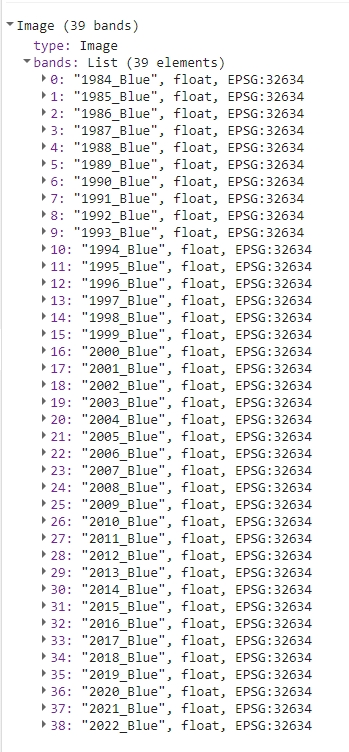
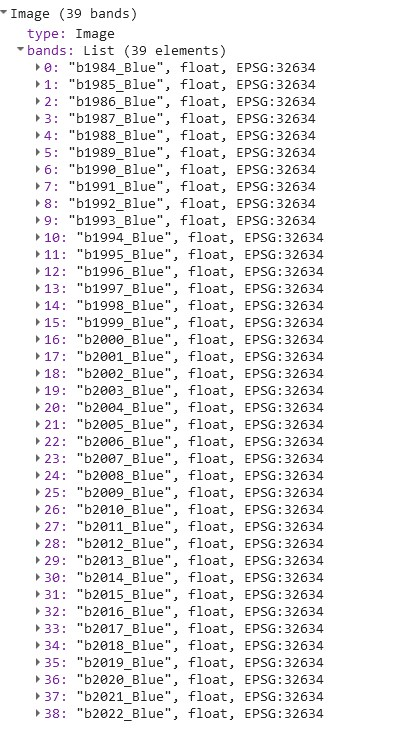
minor exercises fixes

Changed region(s): [[0.0, 0.0, 0.8883, 0.9959]]

diff --git a/course/module2/05_vegetation_monitoring/05_vegetation_monitoring_exercise.md b/course/module2/05_vegetation_monitoring/05_vegetation_monitoring_exercise.md
@@ -72,7 +72,7 @@ You should be able to see a multiband NBR image in the console.
 
 </center>
 
-We’ll also add two vector files: Tatras **Area of Interest** and **forest mask** based on 1984 and 2022 spatial extent of forests.
+We’ll also add two vector files: Tatras **Area of Interest** and **forest mask** based on 1984 and 2022 spatial extent of (combination of both extents).
 
 ``` javascript
 // Define Area of Interest (AOI)

diff --git a/course/module2/03_image_processing/03_image_processing_exercise.md b/course/module2/03_image_processing/03_image_processing_exercise.md
@@ -1278,7 +1278,8 @@ var bandNames = oneImage.bandNames();
 
 // Map over band names to remove prefix
 var newBandNames = bandNames.map(function(name) {
-    return ee.String(name).split('_').slice(1).join('_');
+    var y = ee.String(name).split('_').slice(1).join('_');
+    return ee.String('b').cat(y);
 });
 
 // Rename the bands
